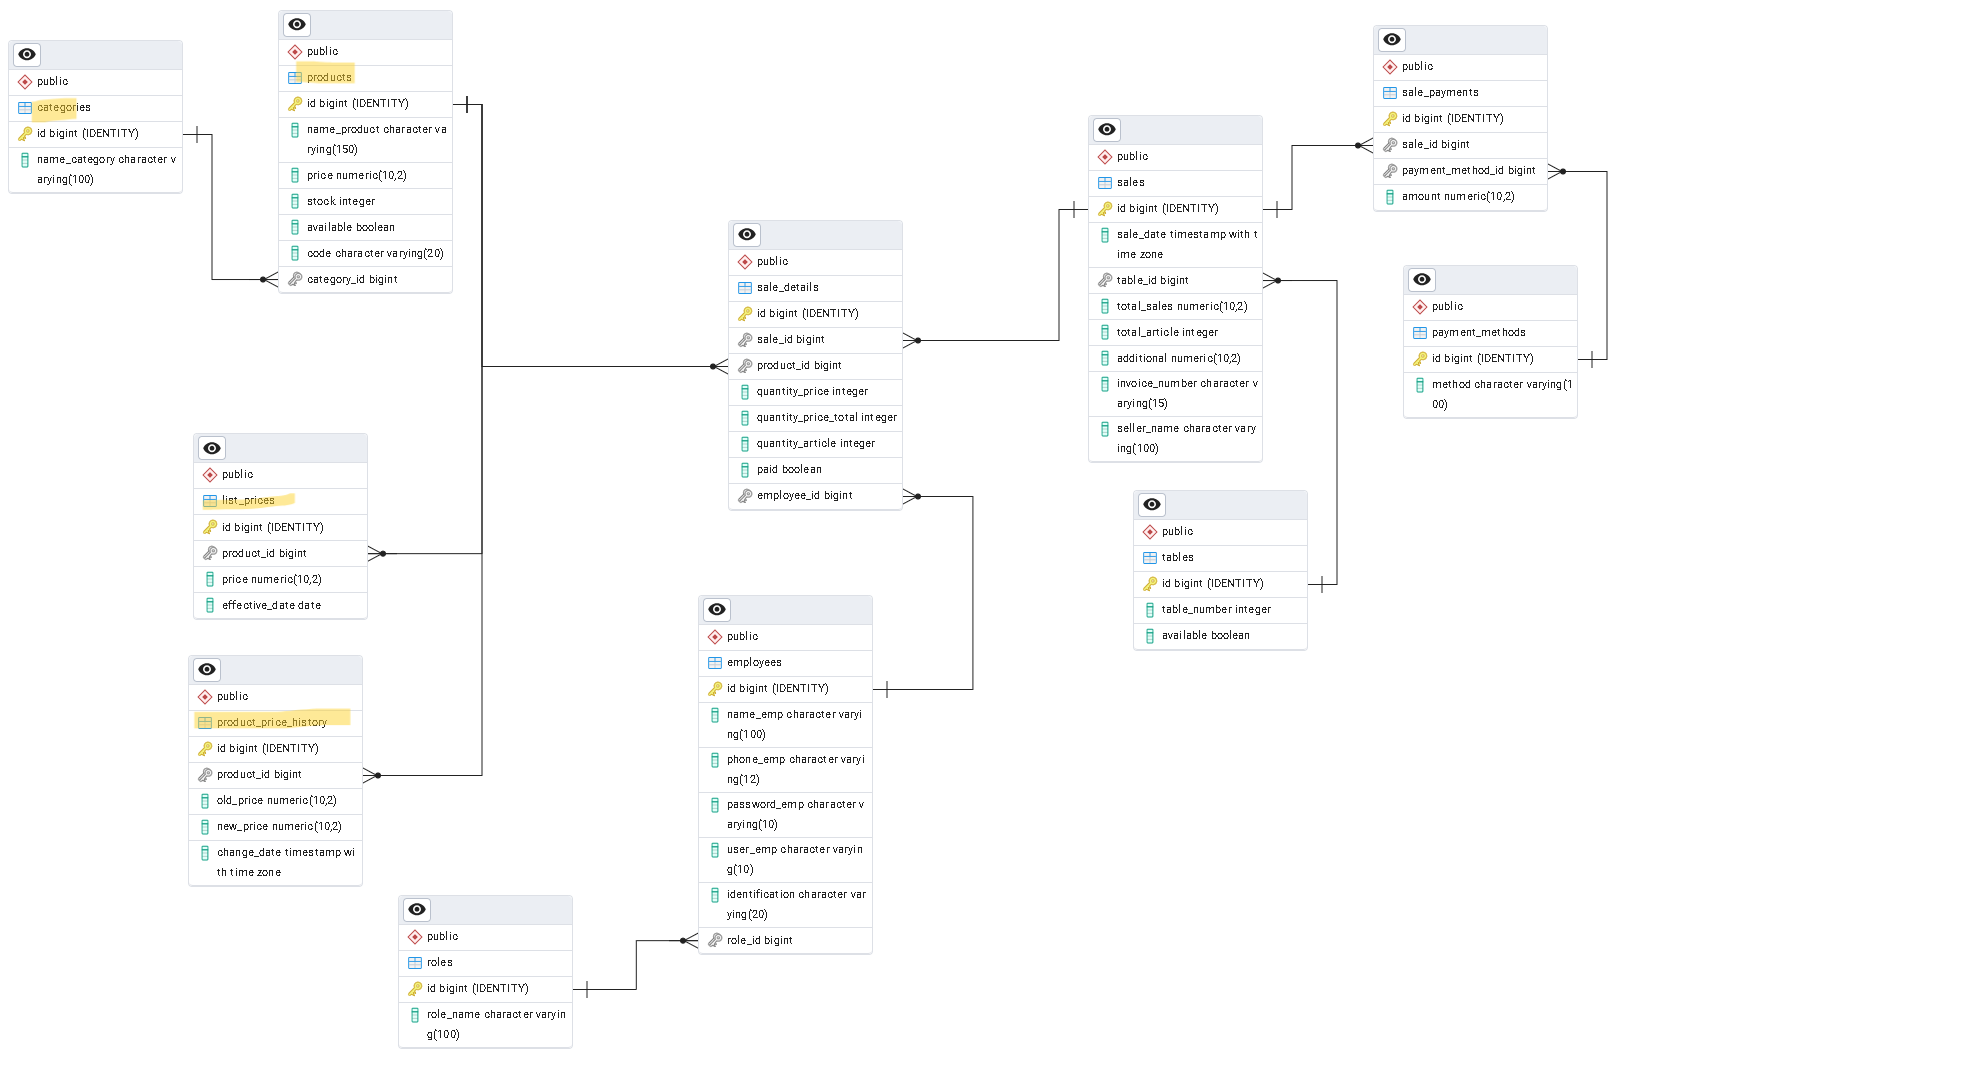
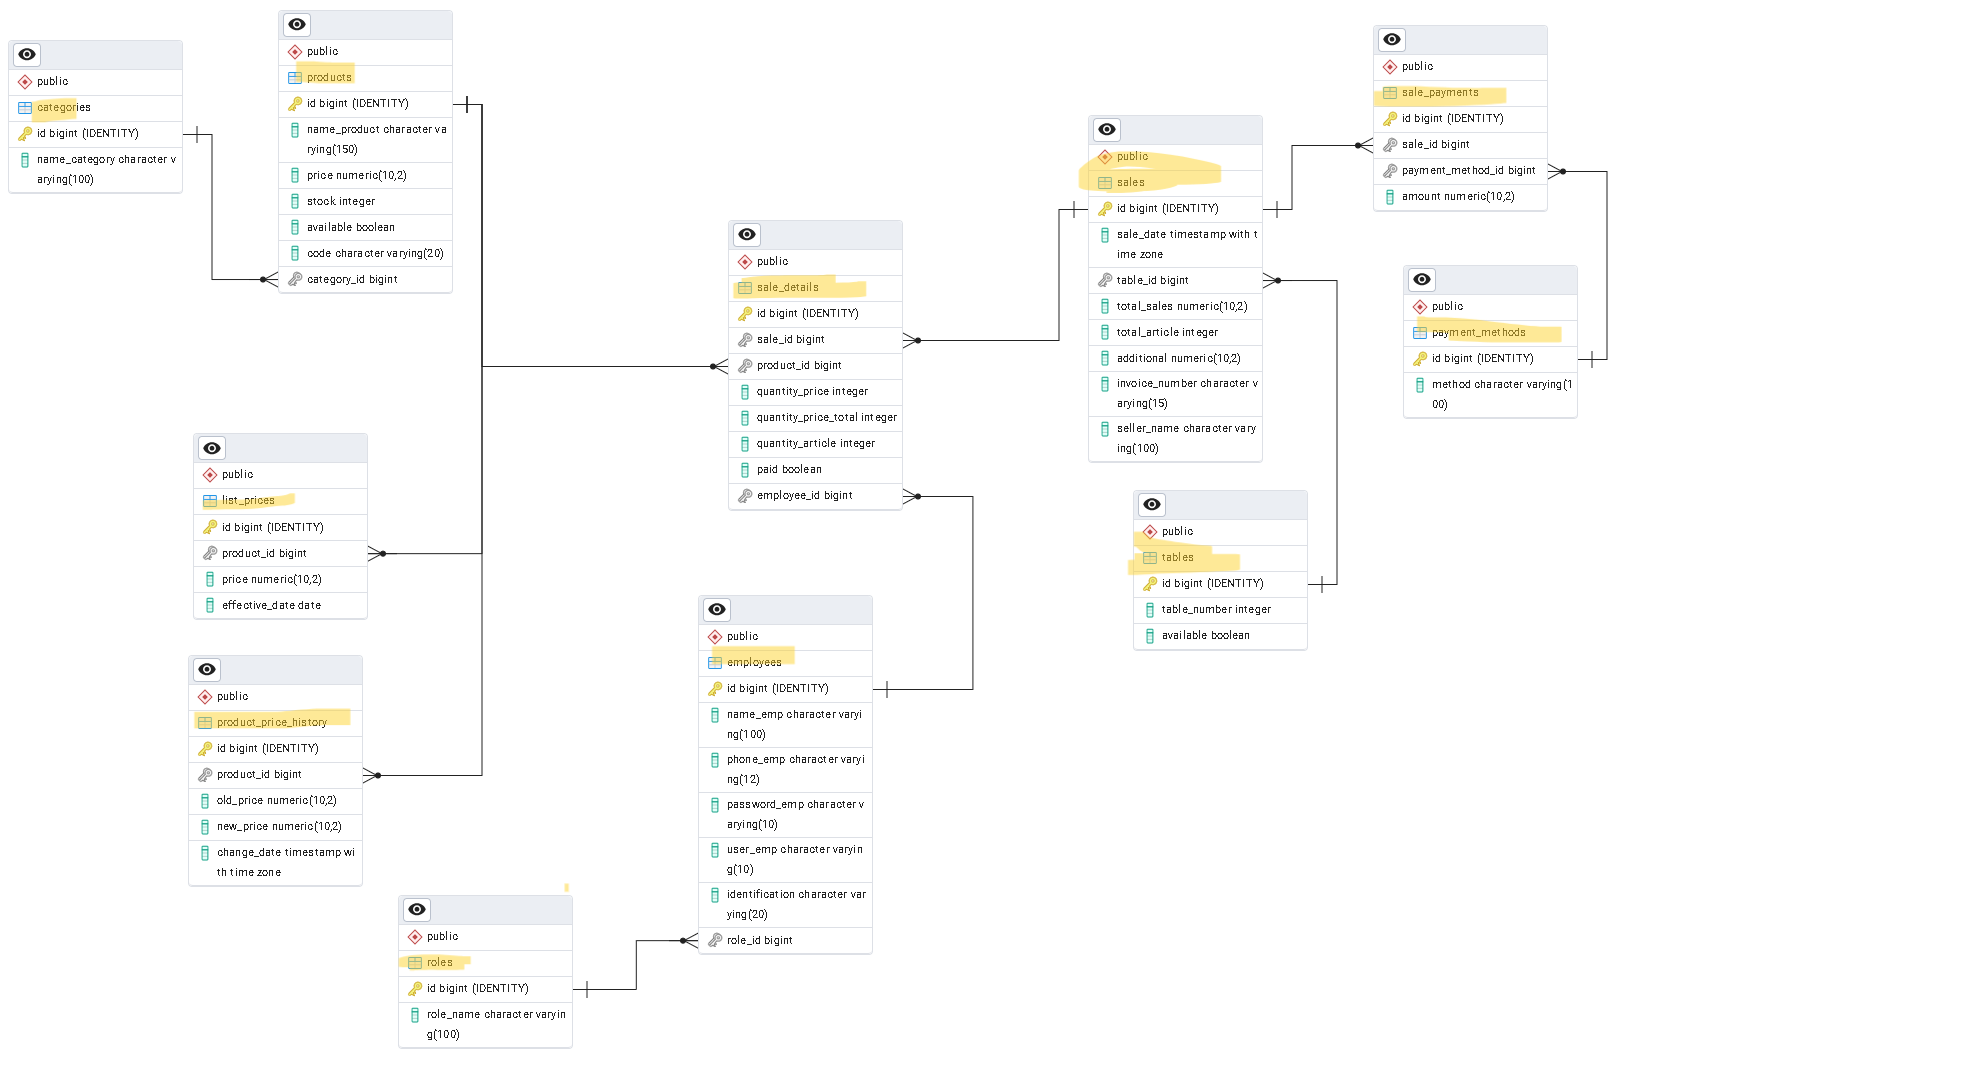
Implement services tu table dba.

diff --git a/src/main/java/com/companys/apisalesup/service/implementation/EmployeeServiceImp.java b/src/main/java/com/companys/apisalesup/service/implementation/EmployeeServiceImp.java
@@ -1,0 +1,39 @@
+package com.companys.apisalesup.service.implementation;
+
+import com.companys.apisalesup.dto.EmployeDto;
+import com.companys.apisalesup.entity.Employee;
+import com.companys.apisalesup.mapper.EmployeesMapper;
+import com.companys.apisalesup.repository.EmployeeRepository;
+import com.companys.apisalesup.service.EmployeeService;
+import lombok.AllArgsConstructor;
+import org.springframework.stereotype.Service;
+import java.util.List;
+import java.util.stream.Collectors;
+
+@Service
+@AllArgsConstructor
+public class EmployeeServiceImp implements EmployeeService {
+
+    private EmployeeRepository employeeRepository;
+
+    @Override
+    public EmployeDto createEmployee(EmployeDto employeDto) {
+        Employee employee = employeeRepository
+                .save(EmployeesMapper
+                .toMapperEmployee(employeDto));
+        return EmployeesMapper.toMapperEmployeeDto(employee);
+    }
+
+    @Override
+    public List<EmployeDto> searchEmployees() {
+        return employeeRepository.findAll()
+                .stream()
+                .map(EmployeesMapper::toMapperEmployeeDto)
+                .collect(Collectors.toList());
+    }
+
+    @Override
+    public void deleteEmployee(Integer idEmployee) {
+        employeeRepository.deleteById(idEmployee);
+    }
+}

diff --git a/src/main/java/com/companys/apisalesup/service/implementation/ProductHistoryServiceImp.java b/src/main/java/com/companys/apisalesup/service/implementation/ProductHistoryServiceImp.java
@@ -27,7 +27,7 @@ public class ProductHistoryServiceImp implements ProductHistoryService {
     @Override
     public List<ProductHistoryDto> searchProductHistoryIdProduct(Integer idProduct) {
         return historyRepository.findProductHistoriesByIdProduct(idProduct)
-                .stream().map((history) -> HistoryProductMapper.mapToProductHistoryDto(history))
+                .stream().map(HistoryProductMapper::mapToProductHistoryDto)
                 .collect(Collectors.toList());
     }
 

diff --git a/src/main/java/com/companys/apisalesup/service/PaymentMethodService.java b/src/main/java/com/companys/apisalesup/service/PaymentMethodService.java
@@ -1,0 +1,13 @@
+package com.companys.apisalesup.service;
+
+import com.companys.apisalesup.dto.PaymentMethodDto;
+
+import java.util.List;
+
+public interface PaymentMethodService {
+
+    PaymentMethodDto savePaymentMethod(PaymentMethodDto paymentMethodDto);
+    List<PaymentMethodDto> searchAllPaymentMethod();
+    void deletePaymentMethod(Integer idPayment);
+
+}

diff --git a/src/main/java/com/companys/apisalesup/service/SalePaymentService.java b/src/main/java/com/companys/apisalesup/service/SalePaymentService.java
@@ -1,0 +1,13 @@
+package com.companys.apisalesup.service;
+
+import com.companys.apisalesup.dto.SalePaymentsDto;
+
+import java.util.List;
+
+public interface SalePaymentService {
+
+    SalePaymentsDto saveSalePayments(SalePaymentsDto salePaymentsDto);
+    List<SalePaymentsDto> searchSalePayments();
+    void deleteSalePayments(Integer idSalePayment);
+
+}

diff --git a/src/main/java/com/companys/apisalesup/service/SaleDetailService.java b/src/main/java/com/companys/apisalesup/service/SaleDetailService.java
@@ -1,0 +1,13 @@
+package com.companys.apisalesup.service;
+
+import com.companys.apisalesup.dto.SaleDetailDto;
+
+import java.util.List;
+
+public interface SaleDetailService {
+
+    SaleDetailDto saveSaleDetail(SaleDetailDto saleDetailDto);
+    List<SaleDetailDto> searchSaleDetail();
+    void deleteSalDetail(Integer idDetail);
+
+}

diff --git a/src/main/java/com/companys/apisalesup/service/EmployeeService.java b/src/main/java/com/companys/apisalesup/service/EmployeeService.java
@@ -1,0 +1,13 @@
+package com.companys.apisalesup.service;
+
+import com.companys.apisalesup.dto.EmployeDto;
+
+import java.util.List;
+
+public interface EmployeeService {
+
+    EmployeDto createEmployee(EmployeDto employeDto);
+    List<EmployeDto> searchEmployees();
+    void deleteEmployee(Integer idEmployee);
+
+}

diff --git a/src/main/java/com/companys/apisalesup/service/TableService.java b/src/main/java/com/companys/apisalesup/service/TableService.java
@@ -1,0 +1,13 @@
+package com.companys.apisalesup.service;
+
+import com.companys.apisalesup.dto.TablesDto;
+
+import java.util.List;
+
+public interface TableService {
+
+    TablesDto saveTable(TablesDto tablesDto);
+    List<TablesDto> searchTables();
+    void deleteSale(Integer idSale);
+
+}

diff --git a/src/main/java/com/companys/apisalesup/service/SaleService.java b/src/main/java/com/companys/apisalesup/service/SaleService.java
@@ -1,0 +1,13 @@
+package com.companys.apisalesup.service;
+
+import com.companys.apisalesup.dto.SalesDto;
+
+import java.util.List;
+
+public interface SaleService {
+
+    SalesDto saveSales(SalesDto salesDto);
+    List<SalesDto> searchSales();
+    void deleteSale(Integer idSale);
+
+}
